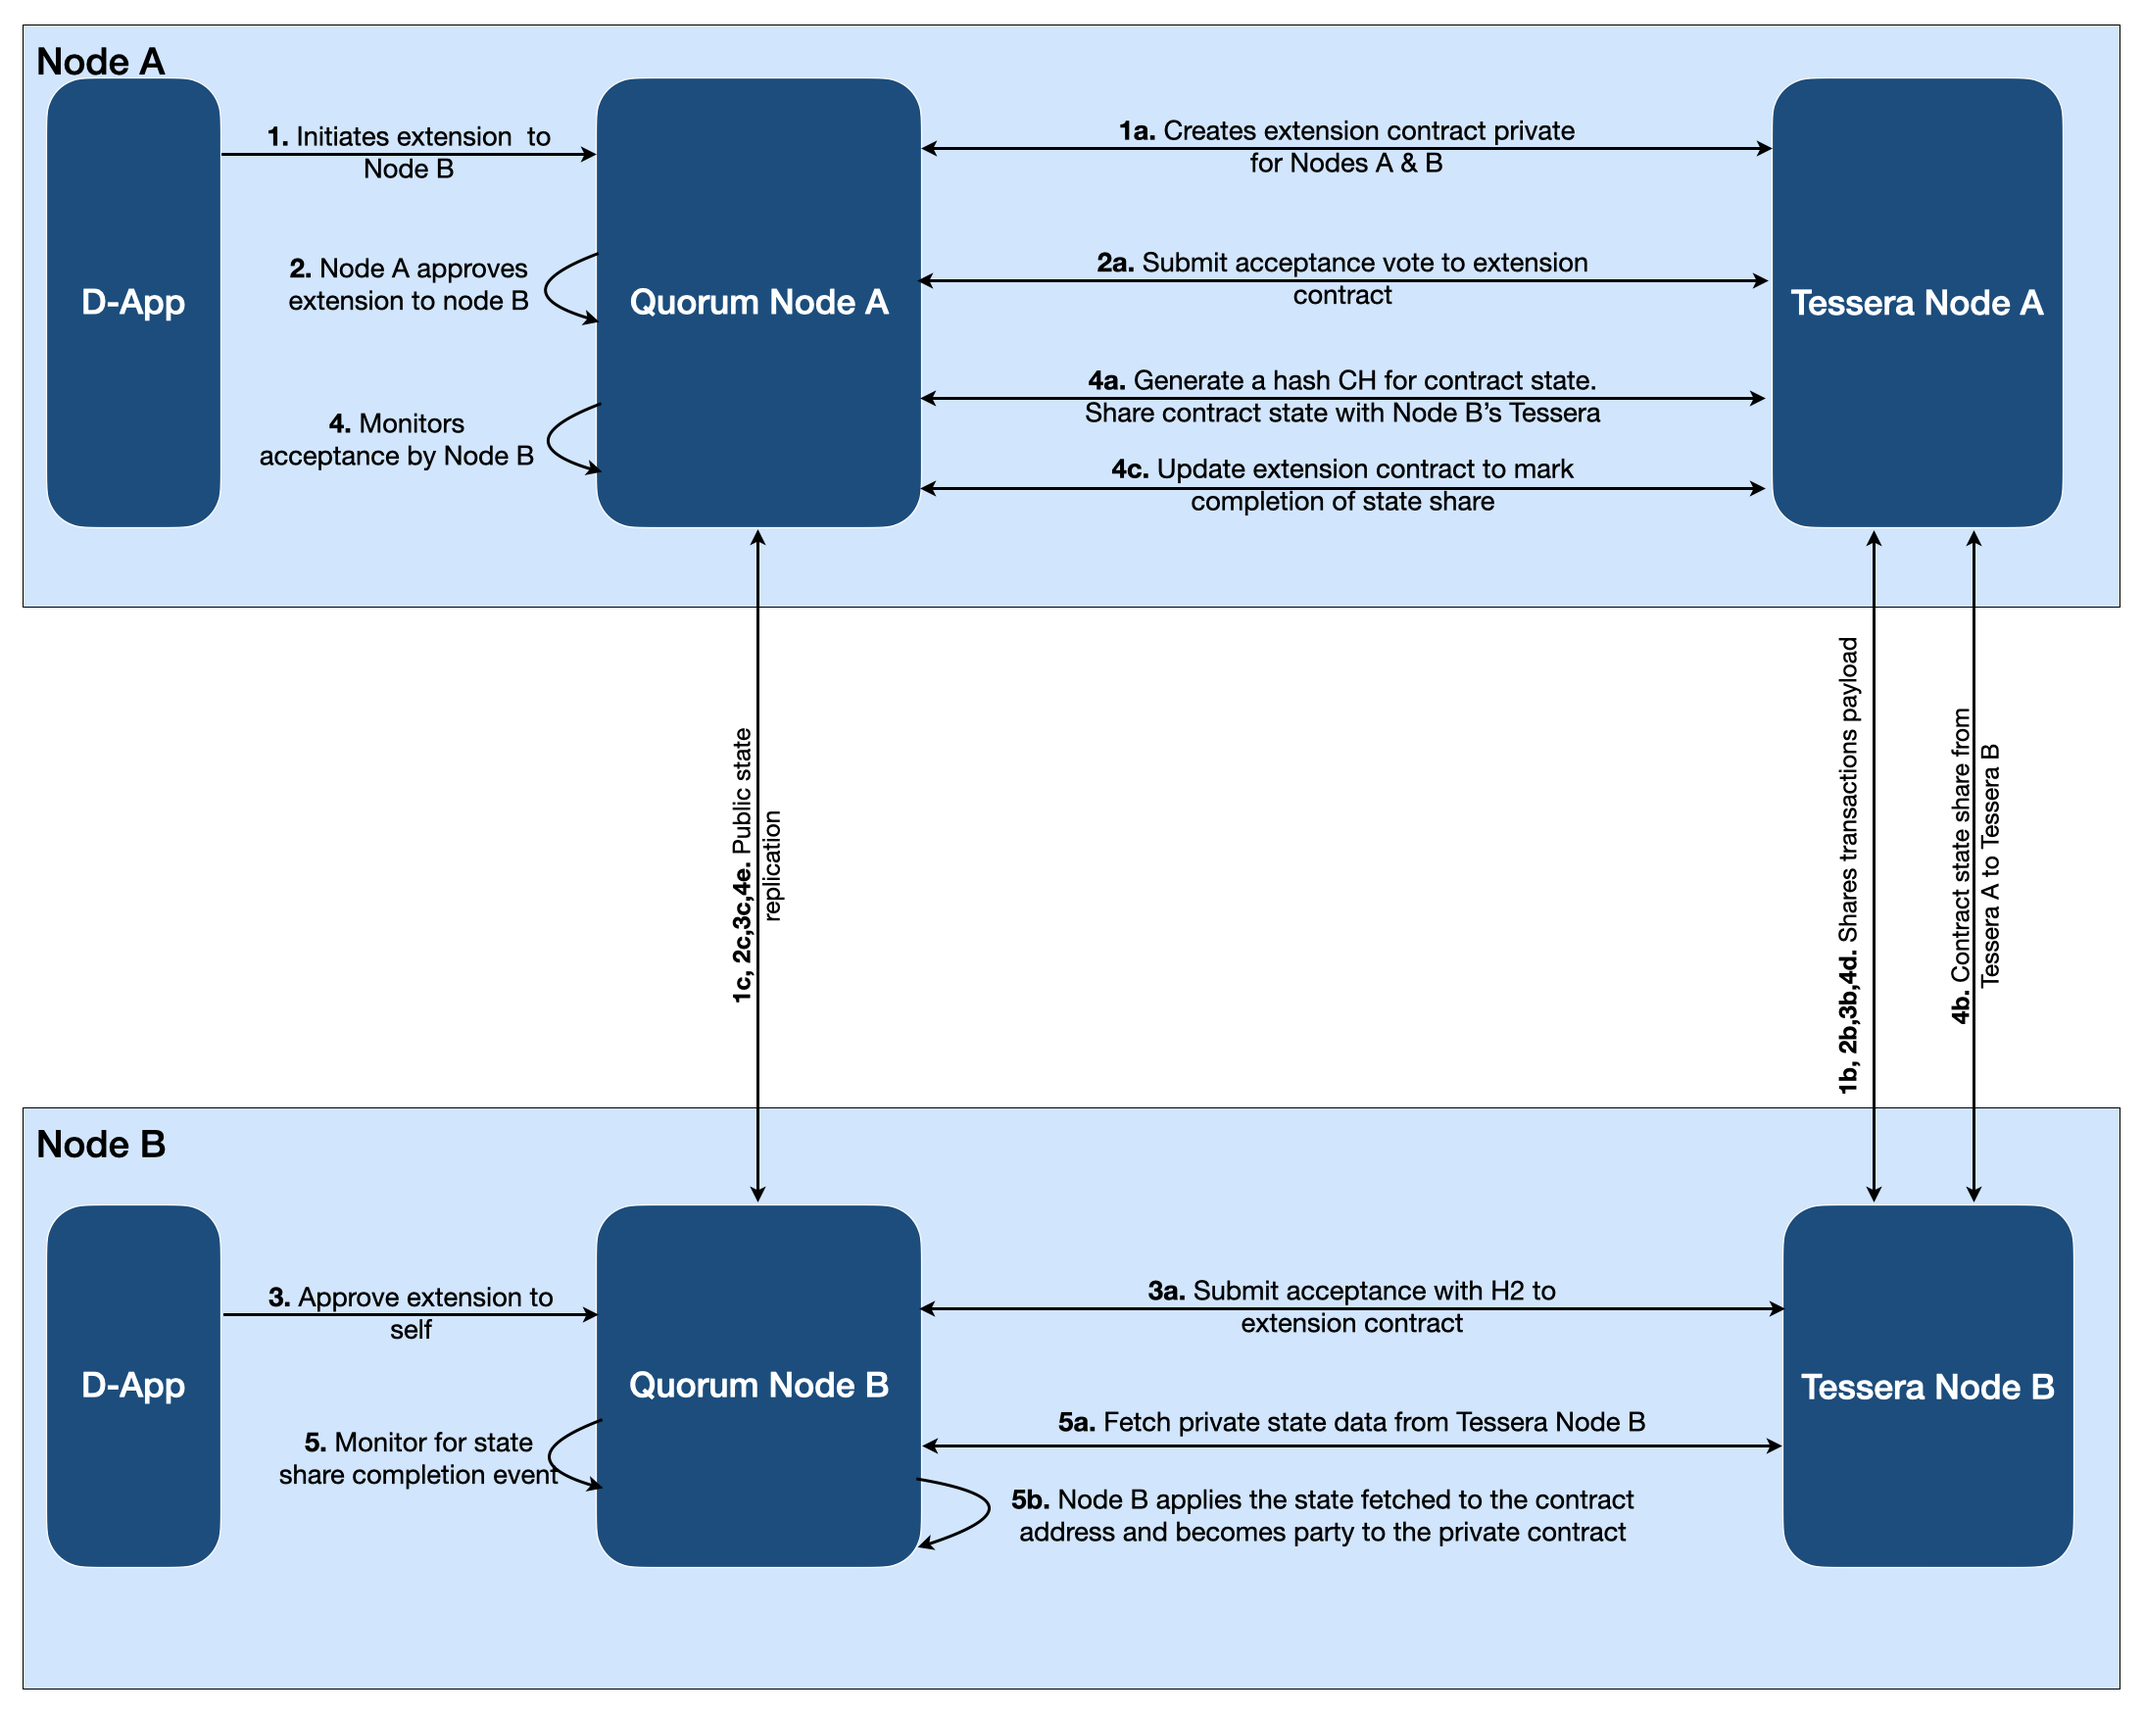
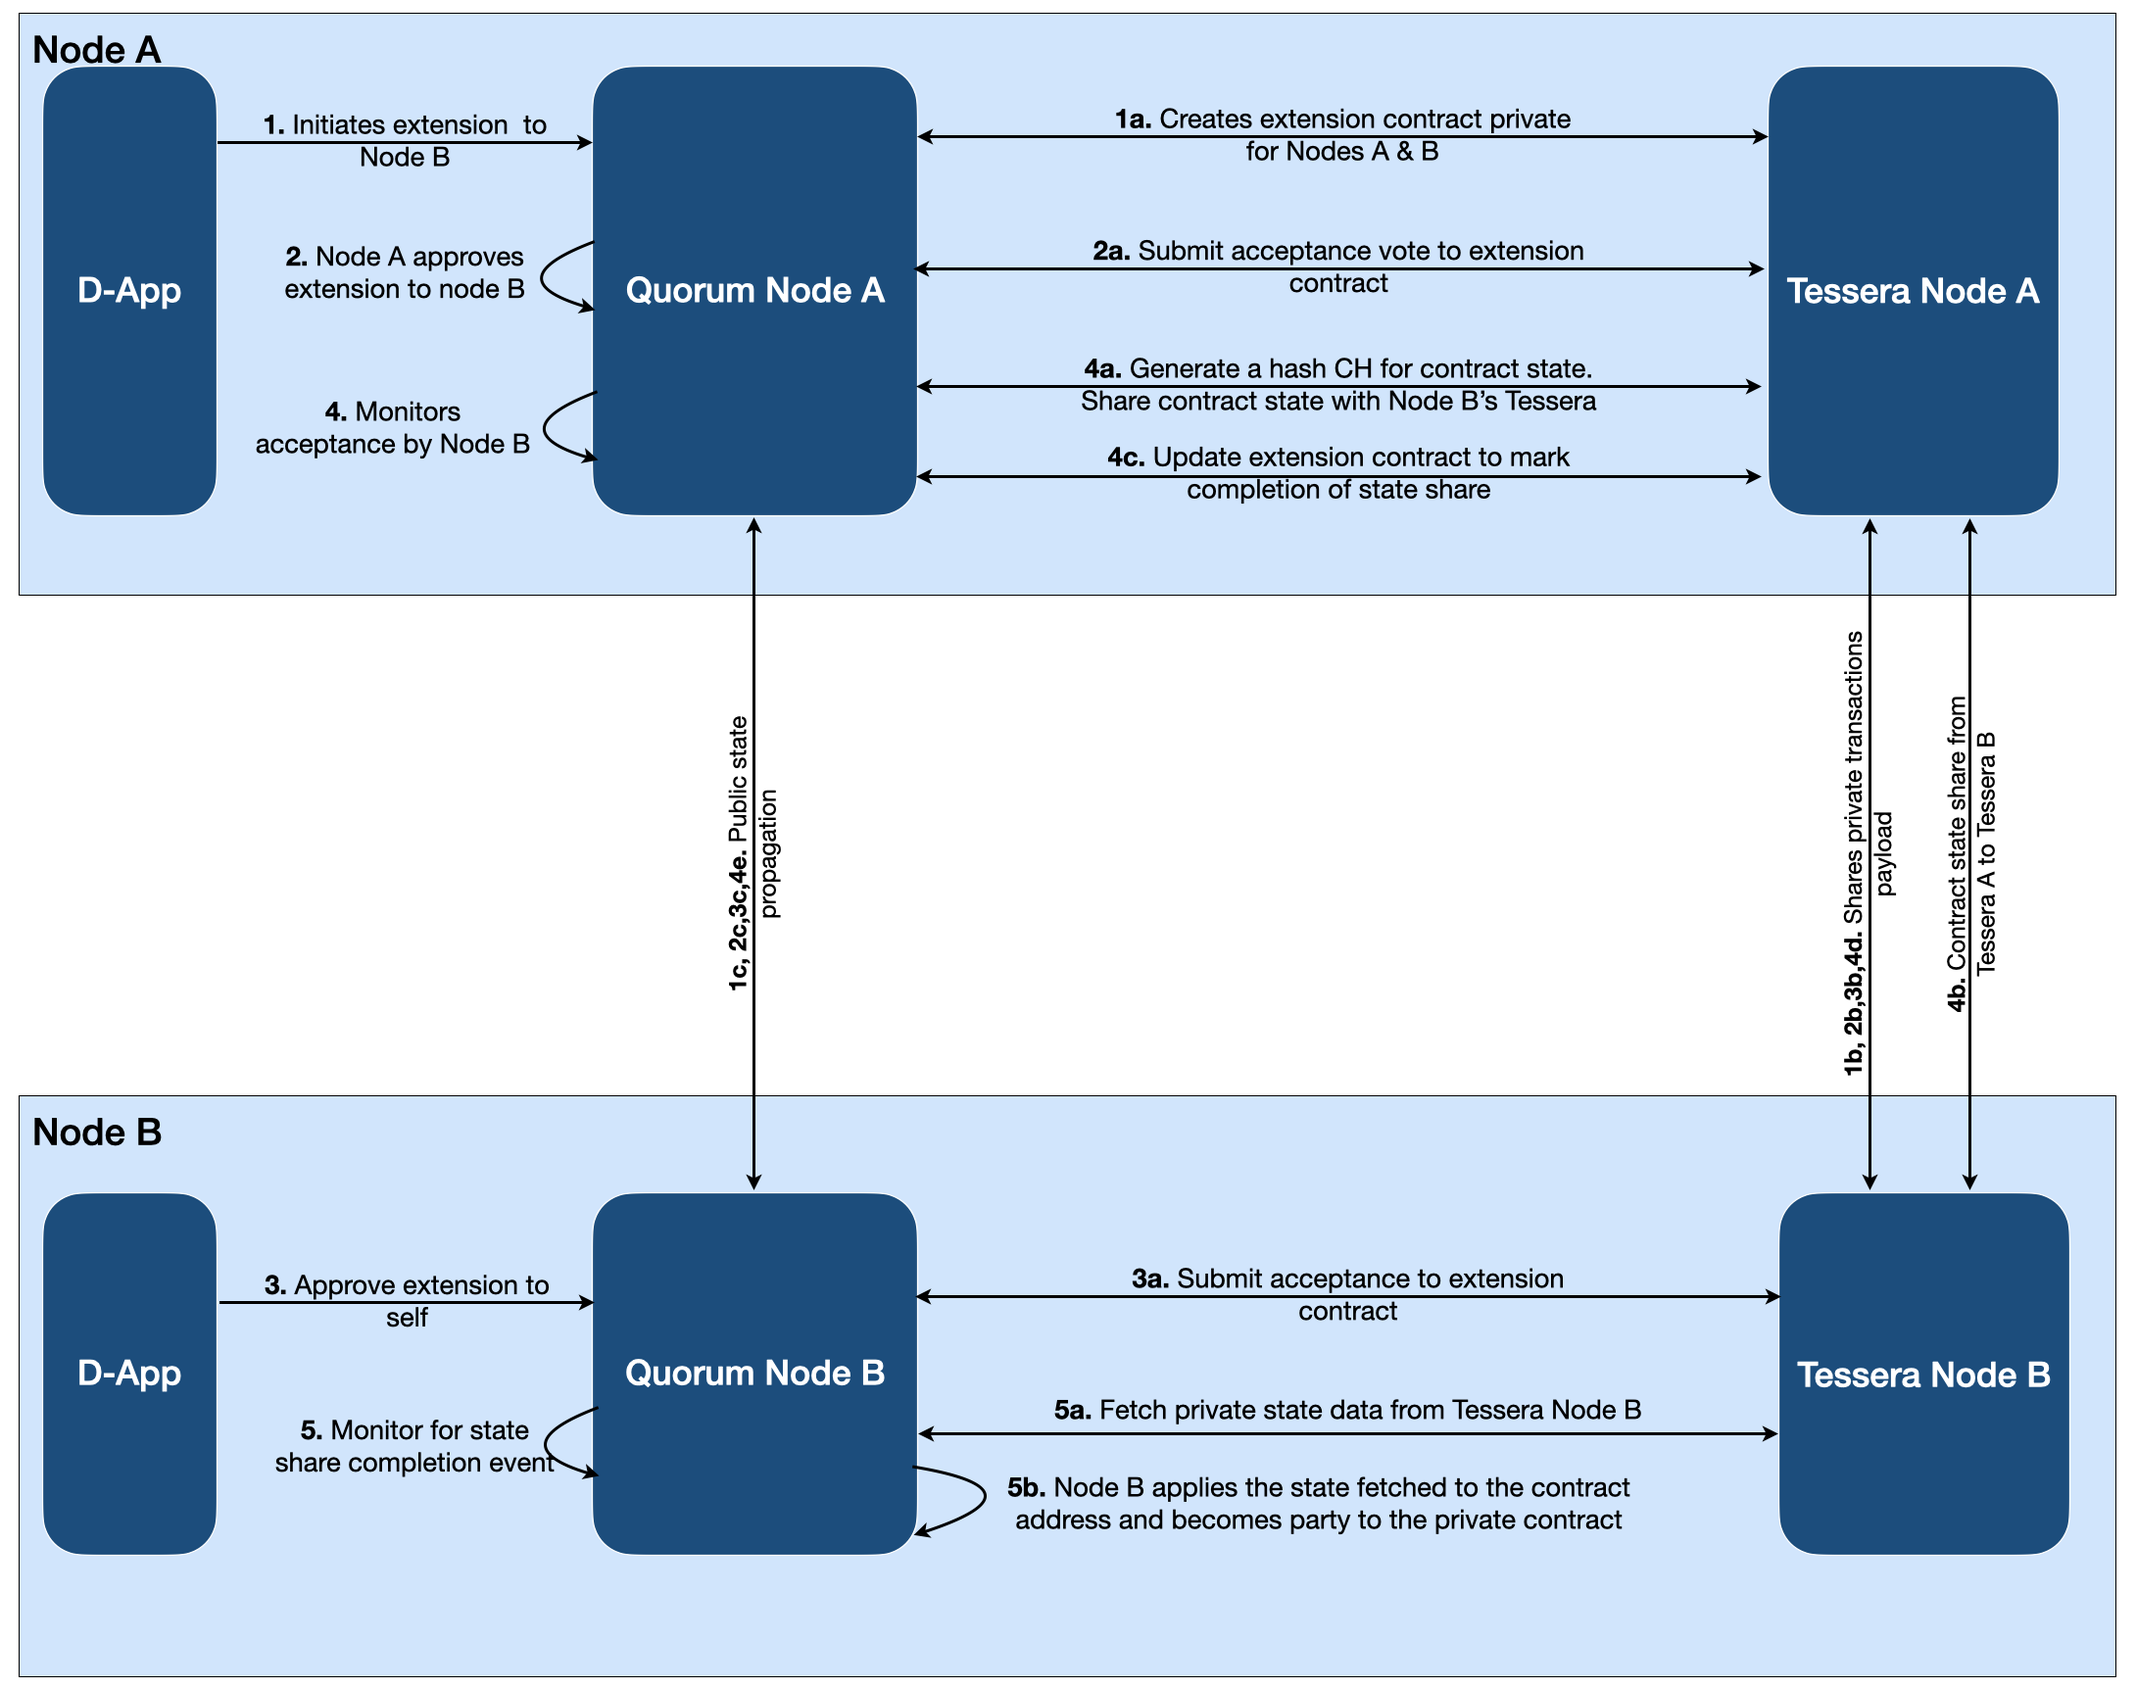
updated documentation and overview diagram

diff --git a/docs/Privacy/Contract-Extension/Overview.md b/docs/Privacy/Contract-Extension/Overview.md
@@ -13,21 +13,21 @@ In this example private contract is being extended from Nodes A to Node B.
 1. User in node A proposes the extension of the contract, citing B's Private Transaction Manager(PTM) public keys as private participants of this extension, node B's public Ethereum key as a receiving address of this extension, and node B's PTM public key as the target receiver. 
     - **1a** - Node A creates the extension contract with user given inputs and Node B's PTM public key
     - **1b** - the private transaction payload is shared with Tessera of node B.
-    - **1c** - The public state is replicated across both nodes. Nodes A and B  see an emitted log, and start watching the contract address that emitted the event for subsequent events that may happen
+    - **1c** - The public state is propagated across all nodes. Nodes A and B  see an emitted log, and start watching the contract address that emitted the event for subsequent events that may happen
 
 1.  Node A automatically approves the contract extension by virtue of creating the extension contract. In the approval process:
     - **2a** - Node A submits the approval to extension contract 
-    - **2c & 2d** - Private transaction payload is shared with Tessera node B. Public state is replicated across all nodes
+    - **2c & 2d** - Private transaction payload is shared with Tessera node B. Public state is propagated across all nodes
 
 1. Since the state sharing does not execute the transactions that generate the state 
    (in order to keep past history private), there is no proof that can be provided by the proposer that the state is correct. In order to remedy this, the receiver must accept the proposal for the contract as the proof. In this step, the user owning the ethereum public key of node B which was marked as receiving address, approves the contract extension using Quorum apis
     - **3a** - Node B submits the acceptance vote to extension contract
-    - **3c & 3d** - Private transaction payload is shared with Tessera nodes A. Public state is replicated across all nodes
+    - **3c & 3d** - Private transaction payload is shared with Tessera nodes A. Public state is propagated across all nodes
 
 1. Node A monitors for acceptance of contract extension by Node B. Once accepted
     - **4a & 4b** - Node A fetches the state of the contract and sends it as a "private transaction" to Node B. It then submits the PTM hash of that state to the contract, including the recipient's PTM public key.
     - **4c** - Node A submits a transactions to mark completion of state share. This transaction emits a log which will get picked up by the receiver when processing the transaction
-    - **4d & 4e** - Private transaction payload is shared with Tessera nodes B. Public state is replicated across all nodes
+    - **4d & 4e** - Private transaction payload is shared with Tessera nodes B. Public state is propagated across all nodes
 
 1. Node B monitors for state share event
     - **5a** - Upon noticing the state share event as a part of block processing, node B fetches the contract private state data from Tessera of node B
